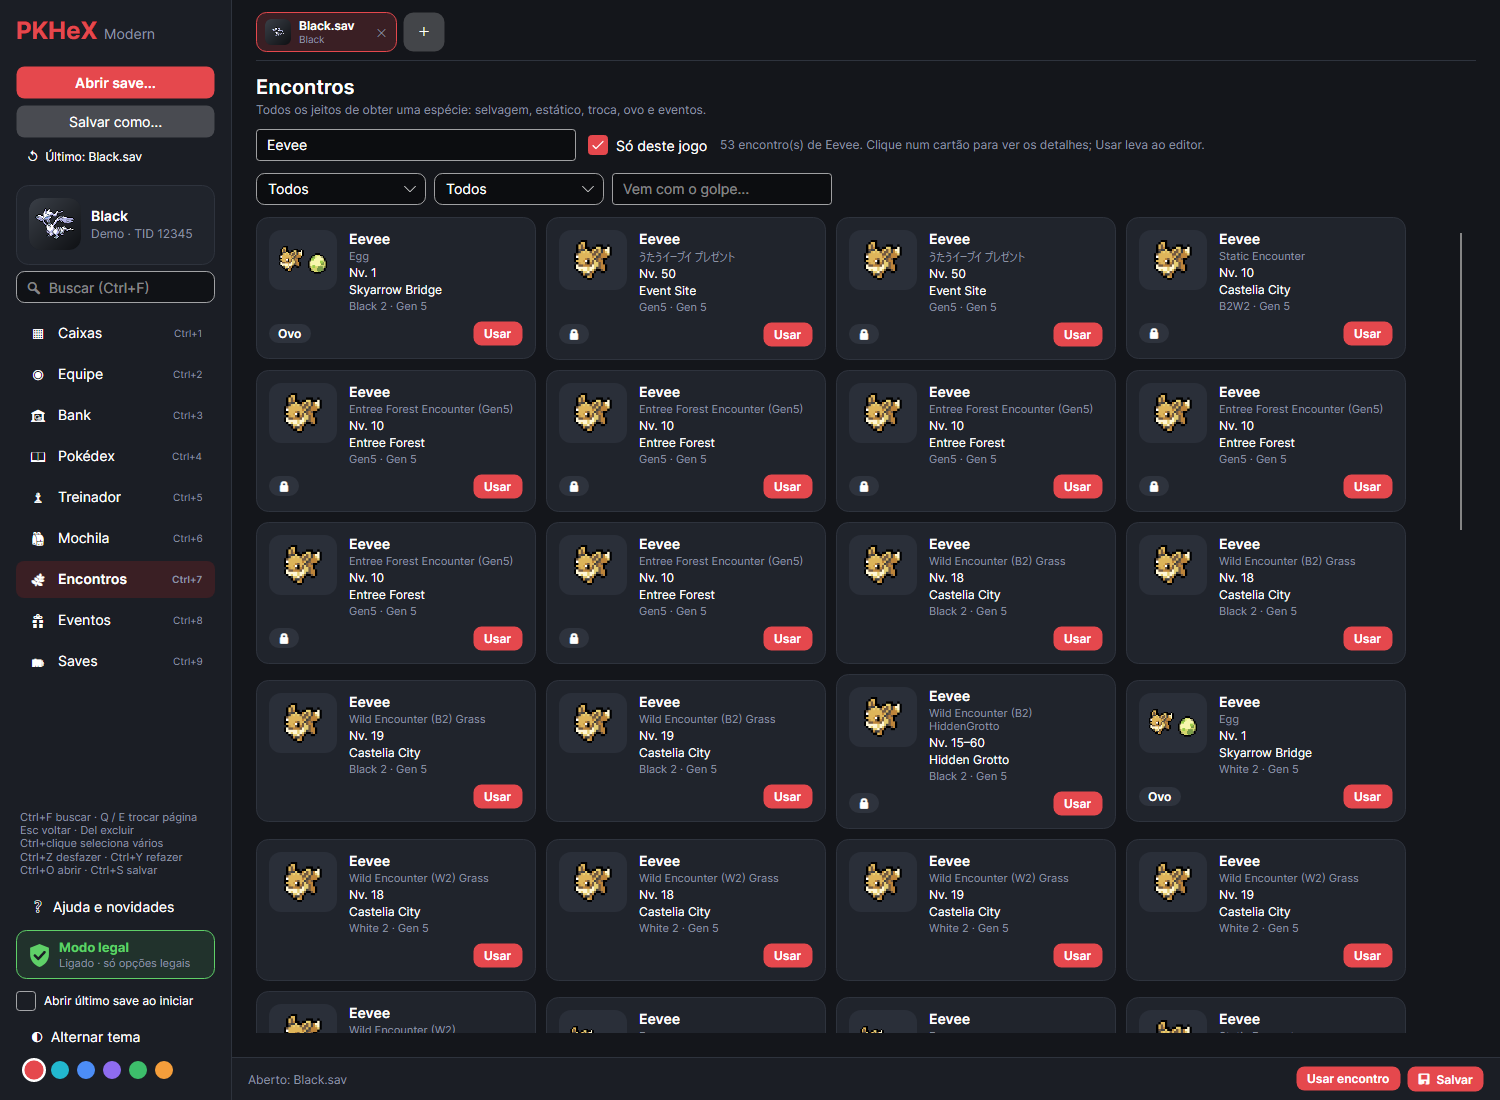
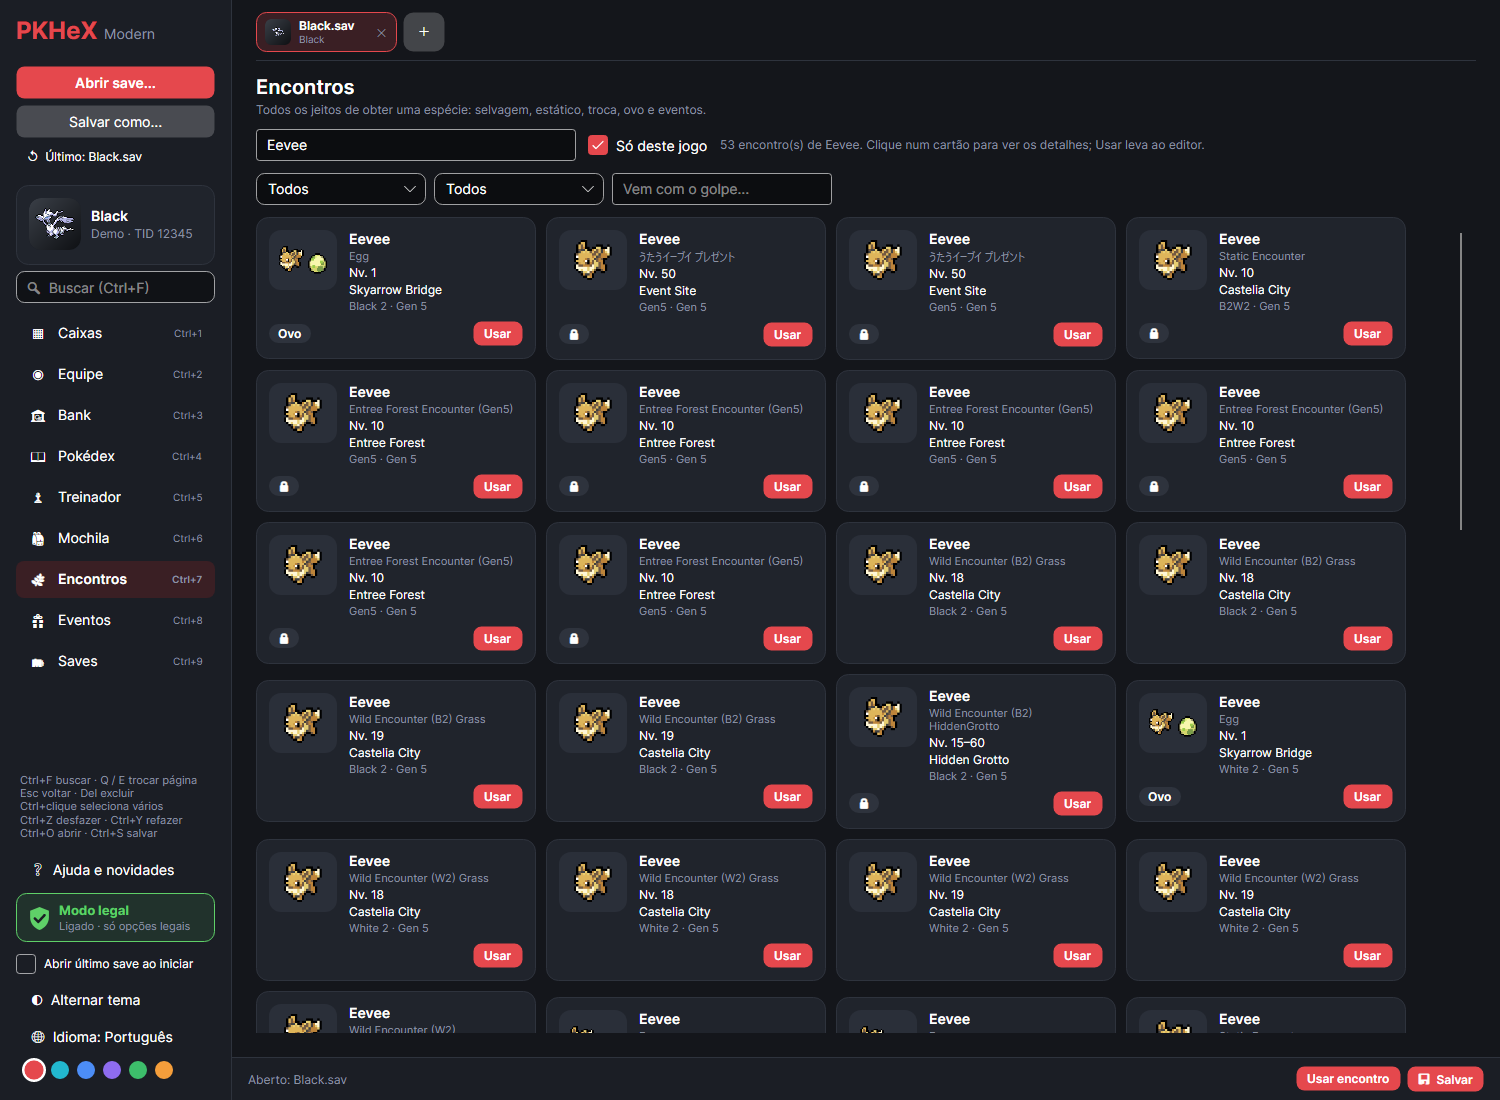
PKHeX.Modern: refresh README screenshots (0.3.8, English UI), shorter language button, Feebas hint

Changed region(s): [[0.0, 0.7109, 0.1227, 0.9582]]

diff --git a/Tools/PKHeX.Modern.Tests/Docs/Program.cs b/Tools/PKHeX.Modern.Tests/Docs/Program.cs
@@ -67,7 +67,12 @@ vm.CurrentPage = vm.SaveManager; Wait(vm.SaveManager.RefreshAsync()); Shot("save
 vm.IsHelpOpen = true; Shot("help"); vm.IsHelpOpen = false;
 vm.CurrentPage = vm.Boxes; win.Width = 1100; win.Height = 800; Shot("compact"); win.Width = 1500; win.Height = 1100;
 var bd = BlankSaveFile.Get(GameVersion.BD); bd.OT = "Demo"; CoreAdapter.Activate(bd);
-var feebas = Make(bd, 349); ((IContestStats)feebas).ContestBeauty = 170; ((IContestStats)feebas).ContestSheen = CoreAdapter.GetContestRule(feebas).MinSheen;
+var feebas = Make(bd, 349); ((IContestStats)feebas).ContestBeauty = 0; ((IContestStats)feebas).ContestSheen = 0; // o botao mostra "Beauty sobe de 0 para 170"
 bd.SetBoxSlotAtIndex(feebas, 0, 0); var bdPath = Path.Combine(library, "Feebas.sav"); File.WriteAllBytes(bdPath, bd.Write().ToArray());
 vm.Open(bdPath); Wait(vm.SelectSlotAsync(vm.Boxes.Slots[0])); vm.Editor!.SelectedTab = 0; Shot("beauty");
+// Interface em ingles: a traducao so e instalada na partida, entao vai por ultimo, numa janela nova.
+Loc.Load(Loc.English); Loc.Hook();
+var vmEn = new MainViewModel(new AppSettings { SavesFolder = library, CheckForUpdates = false, UiLanguage = Loc.English });
+win.Close(); win = new MainWindow { DataContext = vmEn, Width = 1500, Height = 1100 }; win.Show();
+vmEn.Open(black); Wait(vmEn.SelectSlotAsync(vmEn.Boxes.Slots[0])); Shot("english");
 Console.WriteLine("Capturas sintéticas concluídas: " + output);

diff --git a/PKHeX.Modern/ViewModels/MainViewModel.cs b/PKHeX.Modern/ViewModels/MainViewModel.cs
@@ -228,7 +228,7 @@ public sealed class MainViewModel : ViewModelBase
 
     /// <summary>Idiomas da interface (menu "🌐 Idioma" da barra lateral).</summary>
     public IReadOnlyList<LanguageOptionViewModel> LanguageOptions { get; }
-    public string LanguageText => "🌐  " + Loc.T("Idioma") + ": " + (LanguageOptions.FirstOrDefault(l => l.IsSelected)?.Name ?? "Português (Brasil)");
+    public string LanguageText => "🌐  " + Loc.T("Idioma") + ": " + (LanguageOptions.FirstOrDefault(l => l.IsSelected)?.Code == Loc.English ? "English" : "Português");
     /// <summary>Reiniciar o app (definido pela janela; o mesmo fluxo do Reiniciar da atualizacao).</summary>
     public Func<Task>? RestartAppRequested { get; set; }
 

diff --git a/PKHeX.Modern/README.md b/PKHeX.Modern/README.md
@@ -20,8 +20,10 @@ Ela é construída **por cima** do `PKHeX.Core`, sem alterar os projetos origina
 | ![Fitas e memórias](docs/ribbons.png) | ![Evolução por beleza](docs/beauty.png) |
 | **Evolução por felicidade** | **Layout compacto** |
 | ![Evolução por felicidade](docs/friendship.png) | ![Layout compacto](docs/compact.png) |
+| **Interface em inglês (🌐 Idioma)** | |
+| ![Interface em inglês](docs/english.png) | |
 
-Capturas da versão **0.3.7**, geradas em modo headless com saves sintéticos.
+Capturas da versão **0.3.8**, geradas em modo headless com saves sintéticos.
 
 ## Download
 

diff --git a/PKHeX.Modern/CHANGELOG.md b/PKHeX.Modern/CHANGELOG.md
@@ -6,6 +6,11 @@ Ao adicionar uma função, anote em "Próxima versão"; na release, troque o tí
 Formato: "## versão — data", "### seção", "- item".
 -->
 
+## Próxima versão
+
+### Correções
+- O botão “🌐 Idioma” não fica mais cortado na barra lateral, e a dica do Feebas explica o que o botão de evoluir faz.
+
 ## 0.3.8 — 2026-10-03
 
 ### 🌐 Interface
